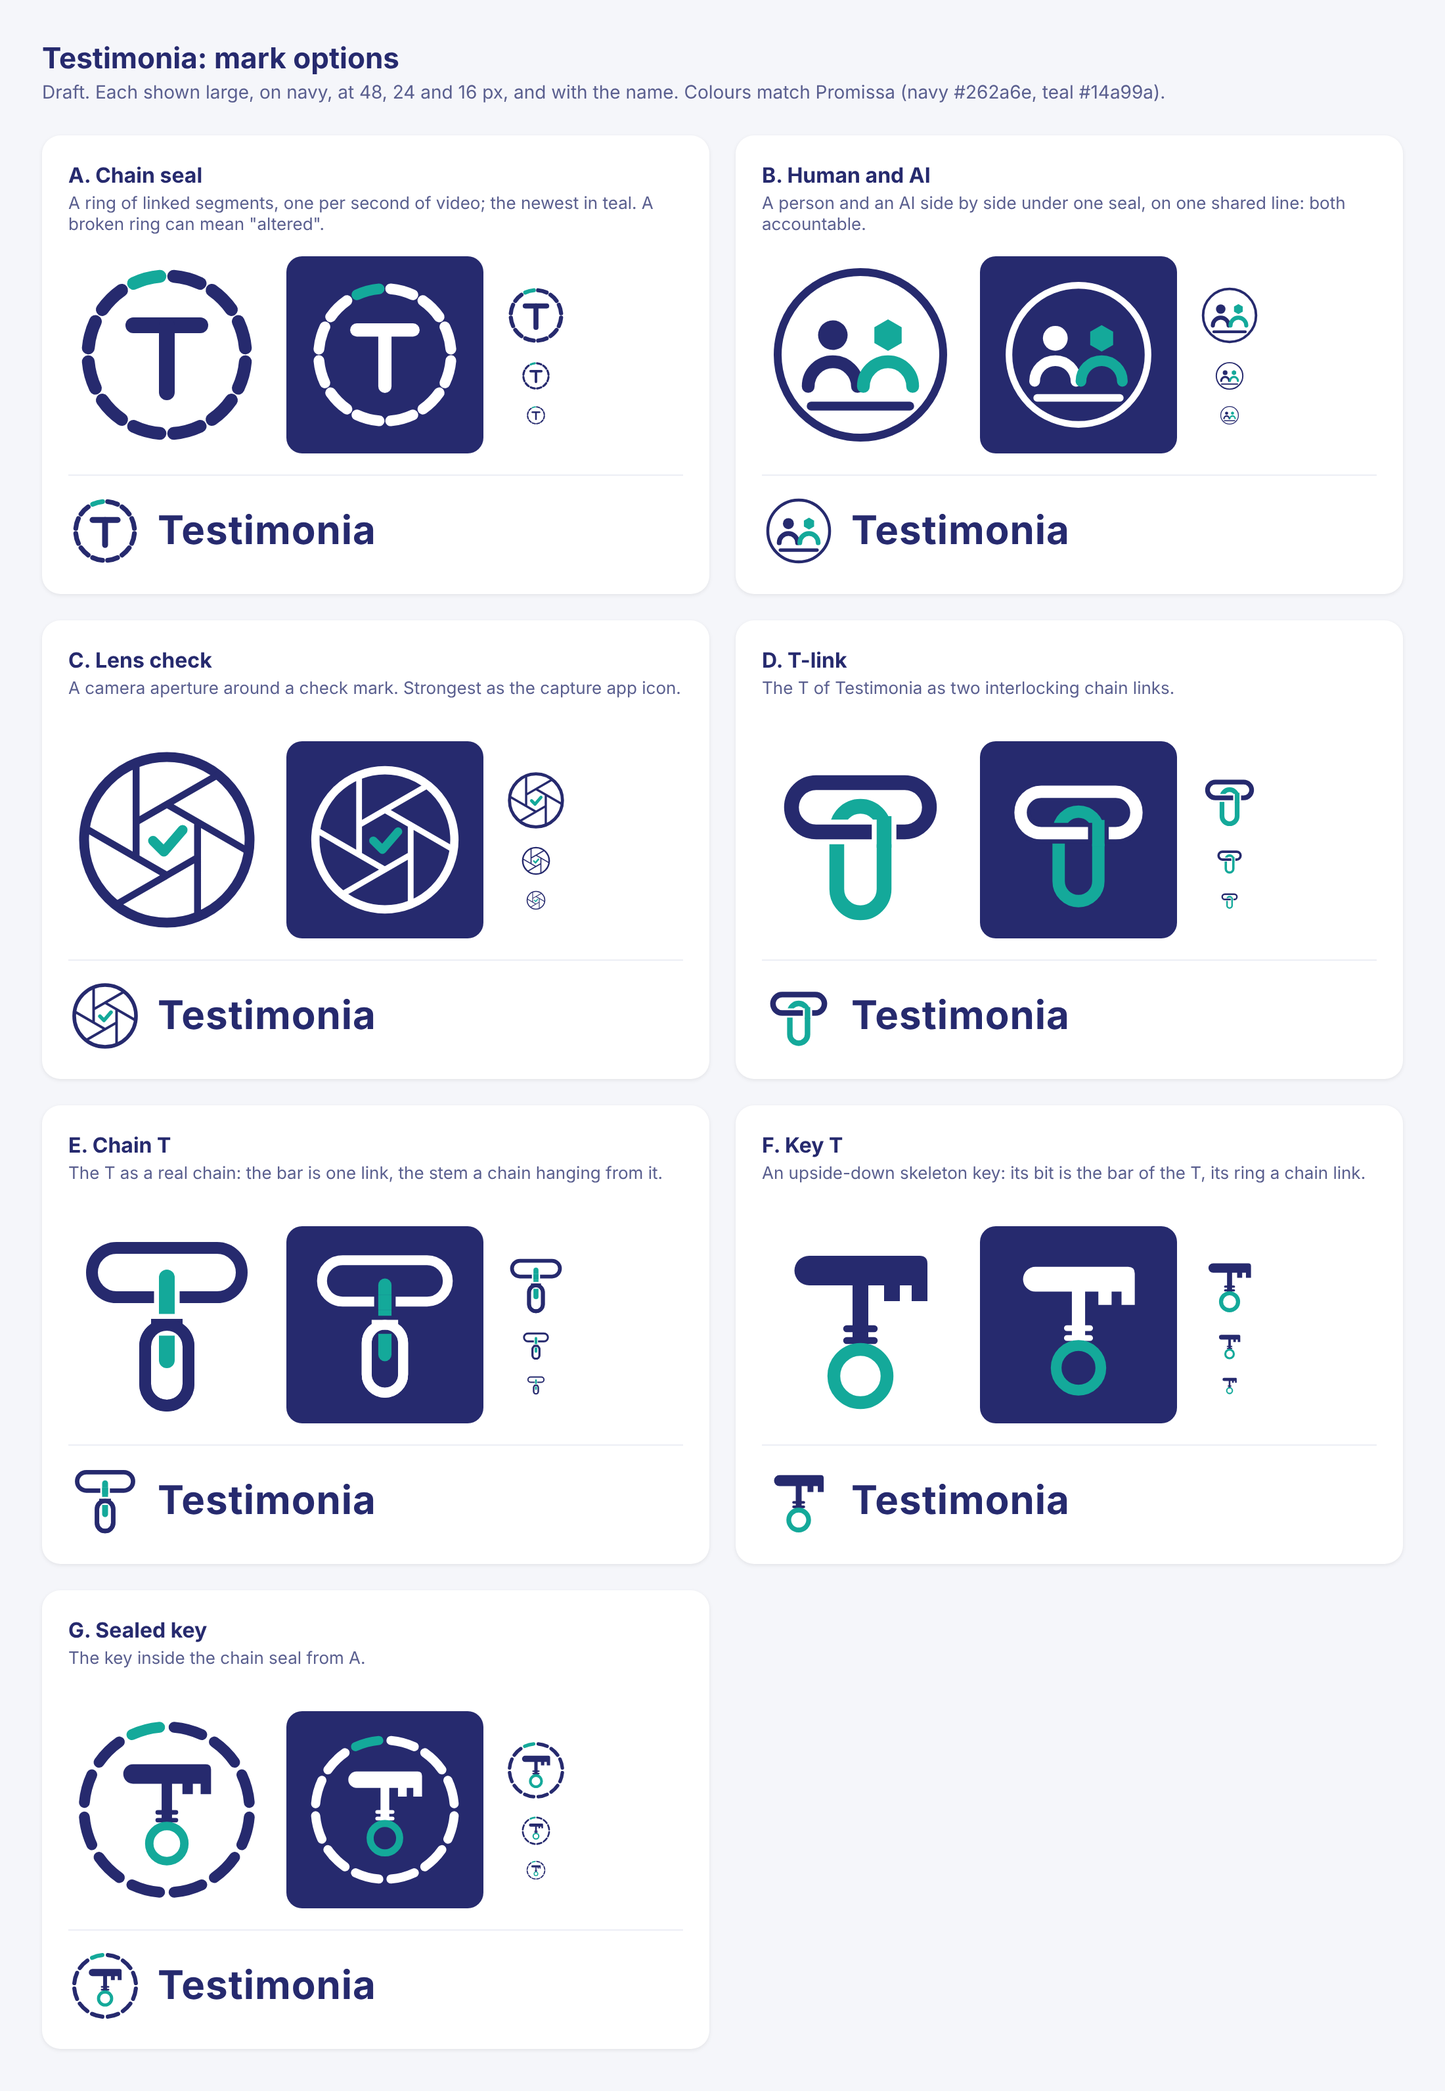
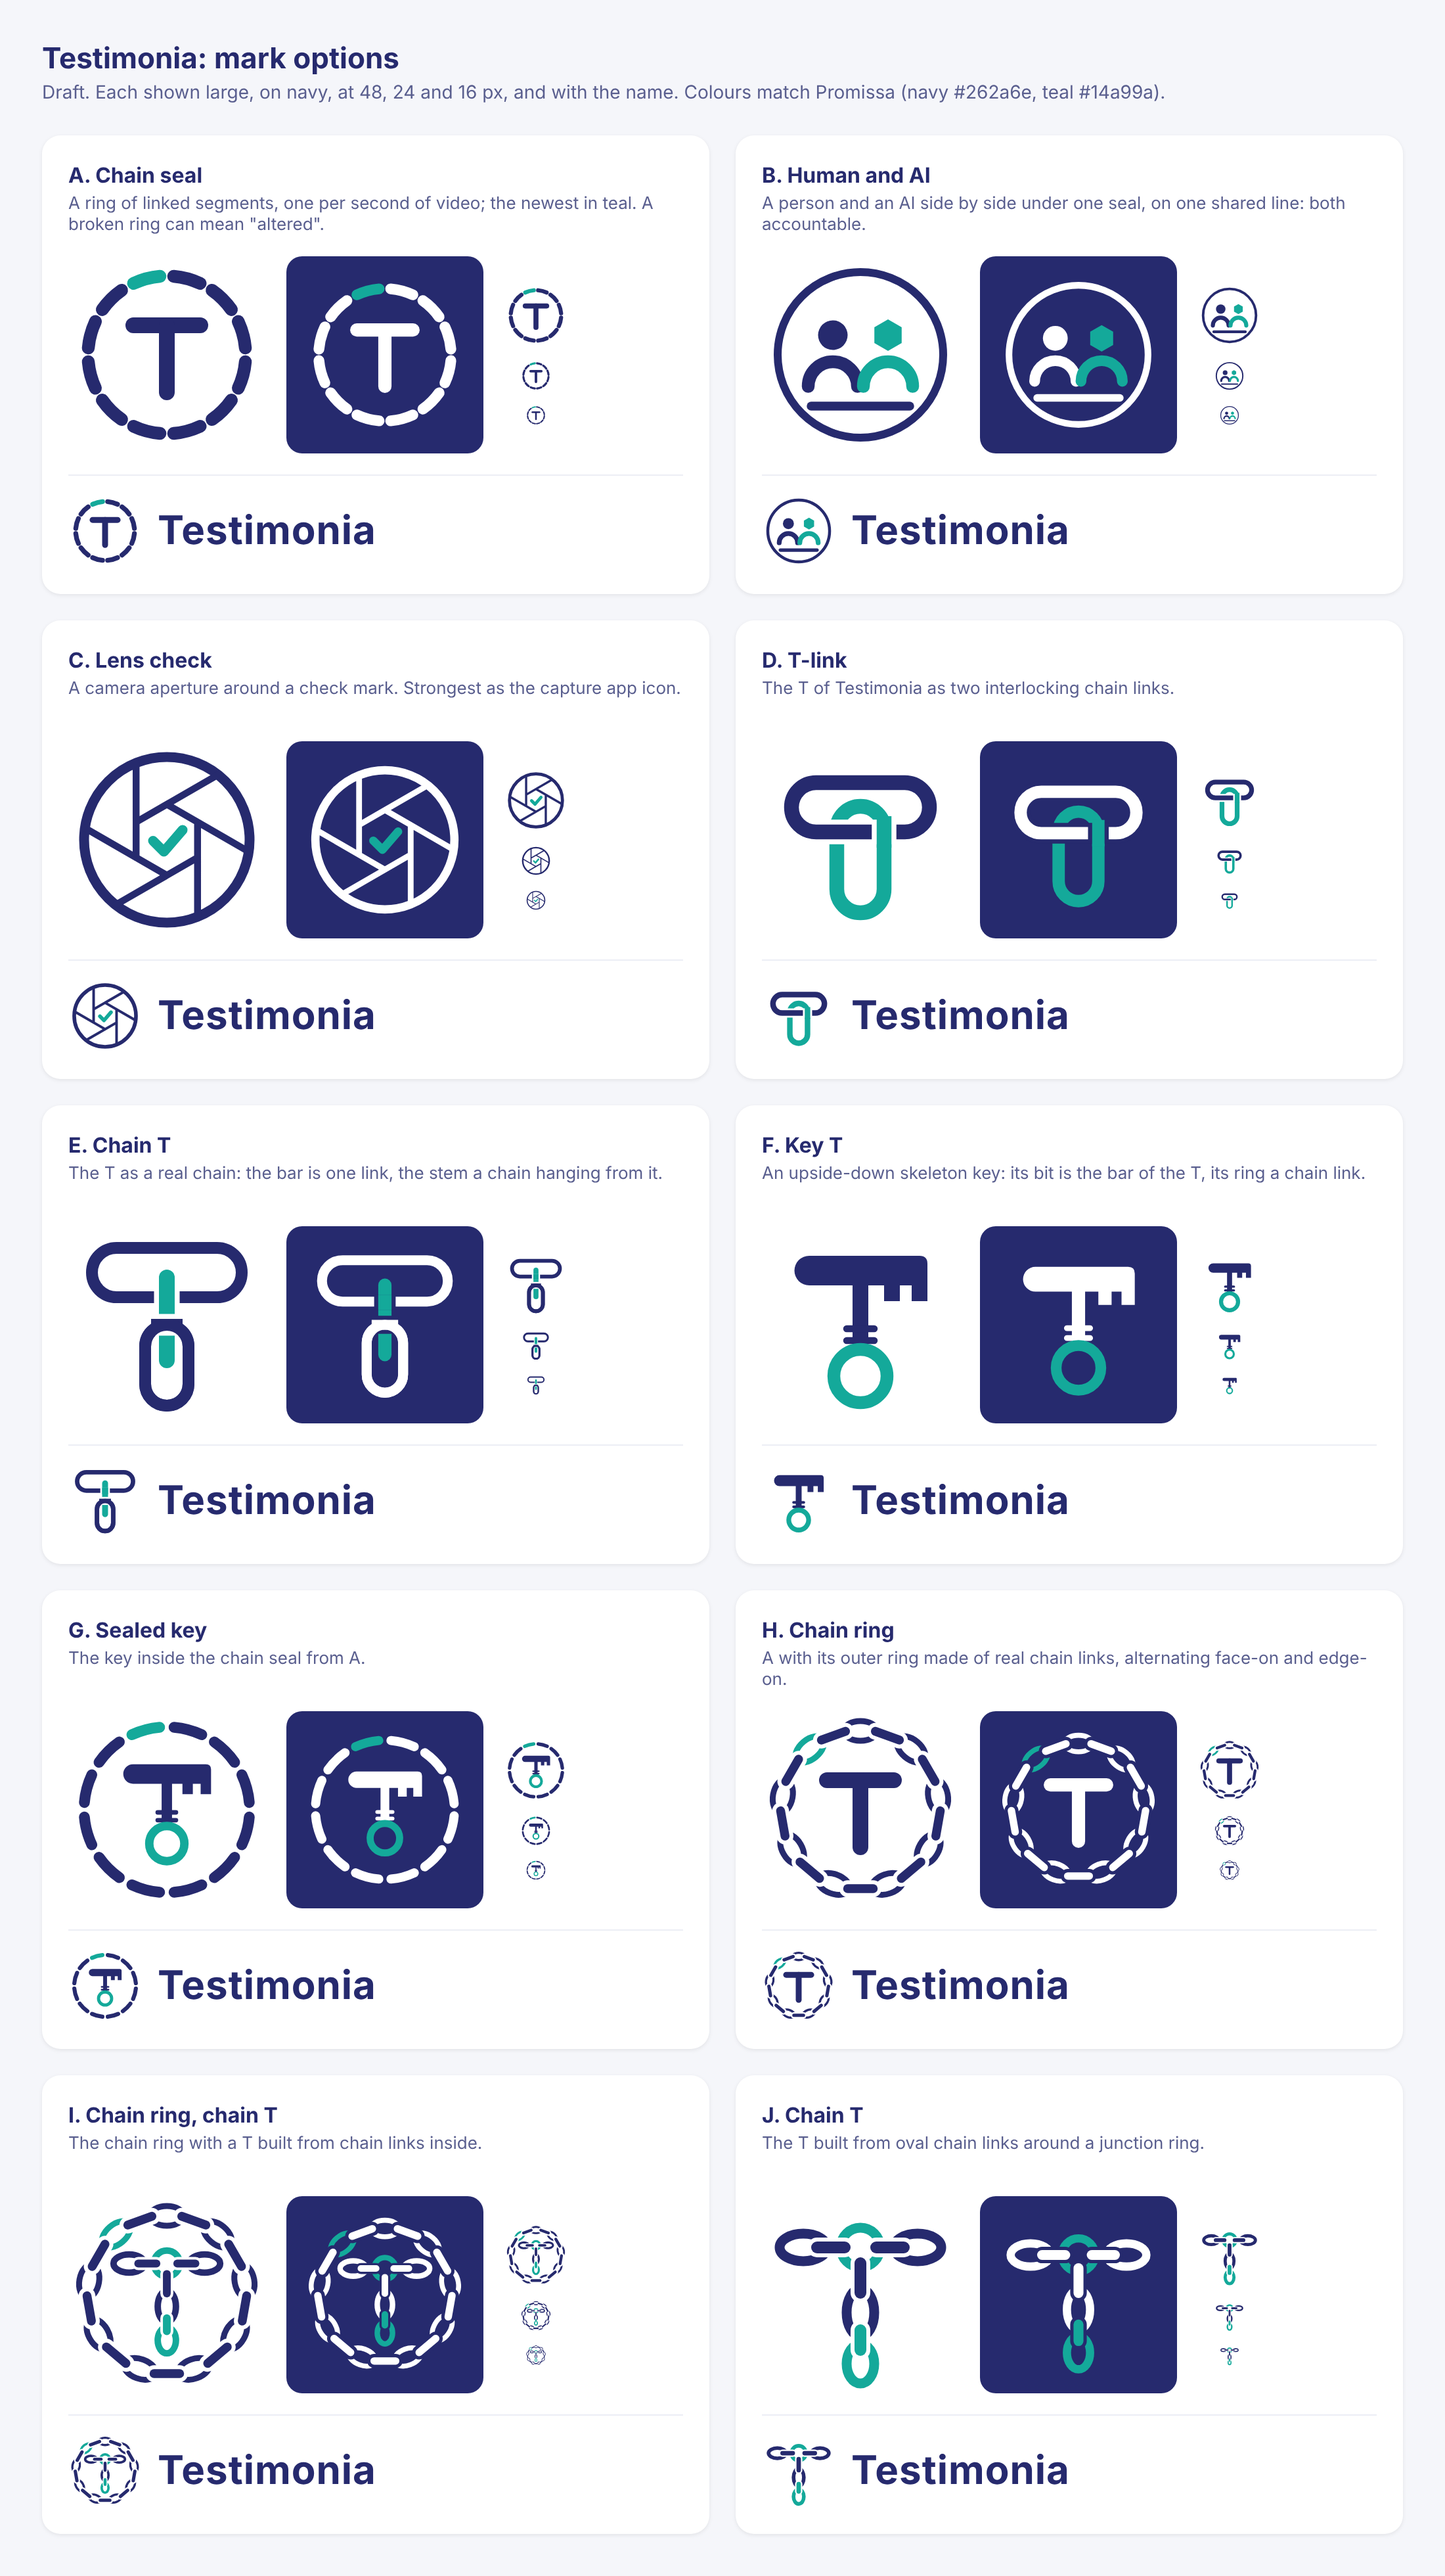
attest: Testimonia chain-link ring and chain-link T marks
Claude-Session: https://claude.ai/code/session_01DpDX5S5RvBJq1Hjz4XCTft

diff --git a/attest/brand/sheet.html b/attest/brand/sheet.html
@@ -31,4 +31,13 @@ h2{margin:0;font-size:16px} .card p{margin:4px 0 14px;font-size:13px;color:#5a5f
 <div class="lockup"><img src="f-key-t.svg" width="56" height="56" alt=""><span>Testimonia</span></div></section><section class="card"><h2>G. Sealed key</h2><p>The key inside the chain seal from A.</p>
 <div class="row"><img src="g-sealed-key.svg" width="150" height="150" alt=""><div class="dark"><img src="g-sealed-key-white.svg" width="126" height="126" alt=""></div>
 <div class="sizes"><img src="g-sealed-key.svg" width="48" height="48" alt=""><img src="g-sealed-key.svg" width="24" height="24" alt=""><img src="g-sealed-key.svg" width="16" height="16" alt=""></div></div>
-<div class="lockup"><img src="g-sealed-key.svg" width="56" height="56" alt=""><span>Testimonia</span></div></section></div></body></html>
+<div class="lockup"><img src="g-sealed-key.svg" width="56" height="56" alt=""><span>Testimonia</span></div></section><section class="card"><h2>H. Chain ring</h2><p>A with its outer ring made of real chain links, alternating face-on and edge-on.</p>
+<div class="row"><img src="h-chain-ring.svg" width="150" height="150" alt=""><div class="dark"><img src="h-chain-ring-white.svg" width="126" height="126" alt=""></div>
+<div class="sizes"><img src="h-chain-ring.svg" width="48" height="48" alt=""><img src="h-chain-ring.svg" width="24" height="24" alt=""><img src="h-chain-ring.svg" width="16" height="16" alt=""></div></div>
+<div class="lockup"><img src="h-chain-ring.svg" width="56" height="56" alt=""><span>Testimonia</span></div></section><section class="card"><h2>I. Chain ring, chain T</h2><p>The chain ring with a T built from chain links inside.</p>
+<div class="row"><img src="i-chain-ring-t.svg" width="150" height="150" alt=""><div class="dark"><img src="i-chain-ring-t-white.svg" width="126" height="126" alt=""></div>
+<div class="sizes"><img src="i-chain-ring-t.svg" width="48" height="48" alt=""><img src="i-chain-ring-t.svg" width="24" height="24" alt=""><img src="i-chain-ring-t.svg" width="16" height="16" alt=""></div></div>
+<div class="lockup"><img src="i-chain-ring-t.svg" width="56" height="56" alt=""><span>Testimonia</span></div></section><section class="card"><h2>J. Chain T</h2><p>The T built from oval chain links around a junction ring.</p>
+<div class="row"><img src="j-chain-t.svg" width="150" height="150" alt=""><div class="dark"><img src="j-chain-t-white.svg" width="126" height="126" alt=""></div>
+<div class="sizes"><img src="j-chain-t.svg" width="48" height="48" alt=""><img src="j-chain-t.svg" width="24" height="24" alt=""><img src="j-chain-t.svg" width="16" height="16" alt=""></div></div>
+<div class="lockup"><img src="j-chain-t.svg" width="56" height="56" alt=""><span>Testimonia</span></div></section></div></body></html>

diff --git a/attest/brand/make-chain.py b/attest/brand/make-chain.py
@@ -1,0 +1,68 @@
+# Marks H, I, J: a ring of real chain links, and a T built from chain links.
+# python3 make-chain.py
+import math
+NAVY = "#262a6e"; TEAL = "#14a99a"; WHITE = "#ffffff"
+
+def svg(title, body):
+    return f'<svg xmlns="http://www.w3.org/2000/svg" viewBox="0 0 200 200"><title>{title}</title>{body}</svg>\n'
+
+def oval(cx, cy, rx, ry, rot, color, sw, halo=None):
+    """A face-on chain link: an oval outline."""
+    t = f'transform="rotate({rot:.2f} {cx:.2f} {cy:.2f})"'
+    s = ''
+    if halo:
+        s += f'<ellipse cx="{cx:.2f}" cy="{cy:.2f}" rx="{rx}" ry="{ry}" {t} fill="none" stroke="{halo}" stroke-width="{sw + 8}"/>'
+    return s + f'<ellipse cx="{cx:.2f}" cy="{cy:.2f}" rx="{rx}" ry="{ry}" {t} fill="none" stroke="{color}" stroke-width="{sw}"/>'
+
+def edge(x0, y0, x1, y1, color, w, halo=None):
+    """An edge-on chain link: a short rounded bar threaded through its neighbours."""
+    d = f'M{x0:.2f} {y0:.2f} L{x1:.2f} {y1:.2f}'
+    s = ''
+    if halo:
+        s += f'<path d="{d}" stroke="{halo}" stroke-width="{w + 8}" stroke-linecap="round" fill="none"/>'
+    return s + f'<path d="{d}" stroke="{color}" stroke-width="{w}" stroke-linecap="round" fill="none"/>'
+
+def chain_ring(fg, accent, bg, R=80, n=18):
+    """n links around a circle, alternating face-on and edge-on, all the same length, so it
+    reads as one continuous chain; one face link in teal (the newest record)."""
+    faces, edges = '', ''
+    step = 360 / n
+    for k in range(n):
+        a = math.radians(k * step - 90)
+        cx, cy = 100 + R * math.cos(a), 100 + R * math.sin(a)
+        tang = math.degrees(a) + 90
+        if k % 2 == 0:
+            faces += oval(cx, cy, 17, 10, tang, accent if k == n - 2 else fg, 6)
+        else:
+            h = 13
+            dx, dy = -math.sin(a) * h, math.cos(a) * h
+            edges += edge(cx - dx, cy - dy, cx + dx, cy + dy, fg, 9, halo=bg)
+    return faces + edges
+
+def chain_t(fg, accent, bg):
+    """A T of chain links: a round junction ring, an arm of links each side, a stem below."""
+    s = ''
+    # face-on links: left and right ends of the bar, and two down the stem
+    s += oval(42, 52, 24, 14, 0, fg, 10)
+    s += oval(158, 52, 24, 14, 0, fg, 10)
+    s += oval(100, 118, 14, 24, 0, fg, 10)
+    s += oval(100, 170, 14, 20, 0, accent, 10)
+    # the junction ring
+    s += f'<circle cx="100" cy="52" r="20" fill="none" stroke="{accent}" stroke-width="10"/>'
+    # edge-on links threaded between them (drawn over, with a background halo)
+    s += edge(56, 52, 84, 52, fg, 12, halo=bg)
+    s += edge(116, 52, 144, 52, fg, 12, halo=bg)
+    s += edge(100, 68, 100, 98, fg, 12, halo=bg)
+    s += edge(100, 136, 100, 156, accent, 12, halo=bg)
+    return s
+
+def solid_t(fg):
+    return f'<g fill="none" stroke="{fg}" stroke-width="16" stroke-linecap="round"><path d="M66 70 H134"/><path d="M100 70 V138"/></g>'
+
+def scaled(body, k):
+    return f'<g transform="translate(100 100) scale({k}) translate(-100 -100)">{body}</g>'
+
+for suf, (fg, ac, bg) in {'': (NAVY, TEAL, WHITE), '-white': (WHITE, TEAL, NAVY)}.items():
+    open(f'h-chain-ring{suf}.svg', 'w').write(svg('Testimonia: chain ring', chain_ring(fg, ac, bg) + solid_t(fg)))
+    open(f'i-chain-ring-t{suf}.svg', 'w').write(svg('Testimonia: chain ring and chain T', chain_ring(fg, ac, bg) + scaled(chain_t(fg, ac, bg), 0.66)))
+    open(f'j-chain-t{suf}.svg', 'w').write(svg('Testimonia: chain T', chain_t(fg, ac, bg)))

diff --git a/attest/brand/make-sheet.py b/attest/brand/make-sheet.py
@@ -7,6 +7,9 @@ names = [
     ('e-chain-t', 'E. Chain T', 'The T as a real chain: the bar is one link, the stem a chain hanging from it.'),
     ('f-key-t', 'F. Key T', 'An upside-down skeleton key: its bit is the bar of the T, its ring a chain link.'),
     ('g-sealed-key', 'G. Sealed key', 'The key inside the chain seal from A.'),
+    ('h-chain-ring', 'H. Chain ring', 'A with its outer ring made of real chain links, alternating face-on and edge-on.'),
+    ('i-chain-ring-t', 'I. Chain ring, chain T', 'The chain ring with a T built from chain links inside.'),
+    ('j-chain-t', 'J. Chain T', 'The T built from oval chain links around a junction ring.'),
 ]
 cards = ''
 for f, t, d in names:

diff --git a/attest/brand/README.md b/attest/brand/README.md
@@ -20,5 +20,11 @@ Chosen direction (Nov 2026): Testimonia, with mark A (chain seal); E, F and G ex
 chain-link and skeleton-key ideas for the brand mark. `key-options.png` shows E to G.
 E to G are generated by `make-keys.py`.
 
+| `h-chain-ring.svg` | A with its ring made of real chain links (face-on and edge-on), T inside. |
+| `i-chain-ring-t.svg` | The chain ring with a T built from chain links inside. |
+| `j-chain-t.svg` | A T built from oval chain links around a teal junction ring. |
+
+H to J are generated by `make-chain.py`; `chain-options.png` shows them.
+
 Colours match Promissa: navy `#262a6e`, teal `#14a99a`. The lockups on the sheet use a
 system font; a final wordmark should be set in a chosen typeface and outlined.
